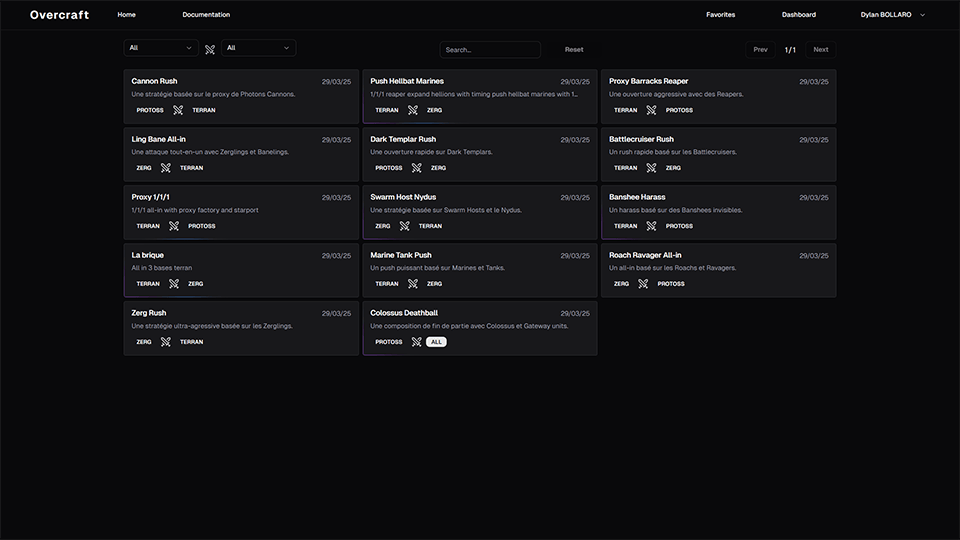
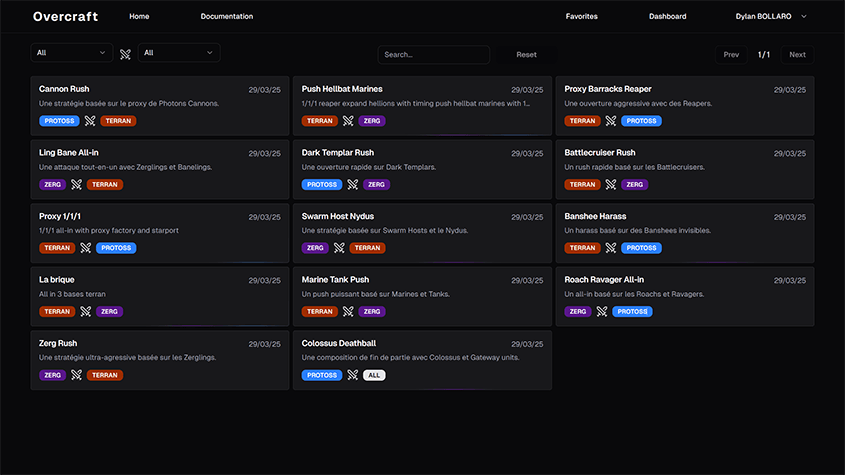
fix colors for race in badge

diff --git a/src/app/builds/[slug]/page.tsx b/src/app/builds/[slug]/page.tsx
@@ -154,26 +154,6 @@ export default function Page({ params }: { params: { slug: string } }) {
                 )}
             </div>
 
-            {/* {!isRunning && (
-                <div className="flex flex-col gap-3">
-                    <div className="flex gap-5 items-center">
-                        <Badge
-                            className="p-2 text-lg justify-center"
-                            variant={getBadgeVariantFromLabel(build?.race?.[0])}
-                        >{`${build.race}`}</Badge>
-                        <p className="text-3xl font-semibold items-center">
-                            vs
-                        </p>
-                        <Badge
-                            className="p-2 text-lg justify-center"
-                            variant={getBadgeVariantFromLabel(
-                                build?.v_race?.[0]
-                            )}
-                        >{`${build?.v_race}`}</Badge>
-                    </div>
-                </div>
-            )} */}
-
             <StepsRowContainer
                 steps={
                     isRunning

diff --git a/src/components/build-item.tsx b/src/components/build-item.tsx
@@ -12,7 +12,6 @@ import {
 import Link from 'next/link'
 import * as _ from 'lodash'
 import { useAuth } from './providers/context-provider'
-import { CustomCard } from './ui-customs/card'
 import { BorderTrail } from './ui/border-trail'
 
 export function BuildItem({ build, update }: any) {
@@ -27,7 +26,7 @@ export function BuildItem({ build, update }: any) {
                     : `/dashboard/update/${build.slug}`
             }
         >
-            <Card className="relative overflow-hidden rounded-md border outline-hidden rounded border text-card-foreground shadow-sm flex flex-col p-4 gap-3 duration-100 h-full">
+            <Card className="relative overflow-hidden outline-hidden rounded border text-card-foreground shadow-sm flex flex-col p-4 gap-3 duration-100 h-full">
                 {_.some(userFavorites, { buildId: build.id }) && (
                     <BorderTrail
                         transition={{ delay: 0 }}

diff --git a/src/components/ui/badge.tsx b/src/components/ui/badge.tsx
@@ -15,10 +15,9 @@ const badgeVariants = cva(
                 destructive:
                     'border-transparent bg-destructive text-destructive-foreground shadow-sm hover:bg-destructive/80',
                 outline: 'text-foreground',
-                zerg: 'border-transparent bg-zerg text-zerg-foreground hover:bg-zerg/80',
-                terran: 'border-transparent bg-terran text-terran-foreground hover:bg-terran/80',
-                protoss:
-                    'border-transparent bg-protoss text-protoss-foreground hover:bg-protoss/80',
+                zerg: 'border-transparent bg-purple-900 hover:bg-purple-900/90',
+                terran: 'border-transparent bg-orange-800 hover:bg-orange-800/90',
+                protoss: 'border-transparent bg-blue-500 hover:bg-blue-500/90',
             },
         },
         defaultVariants: {
